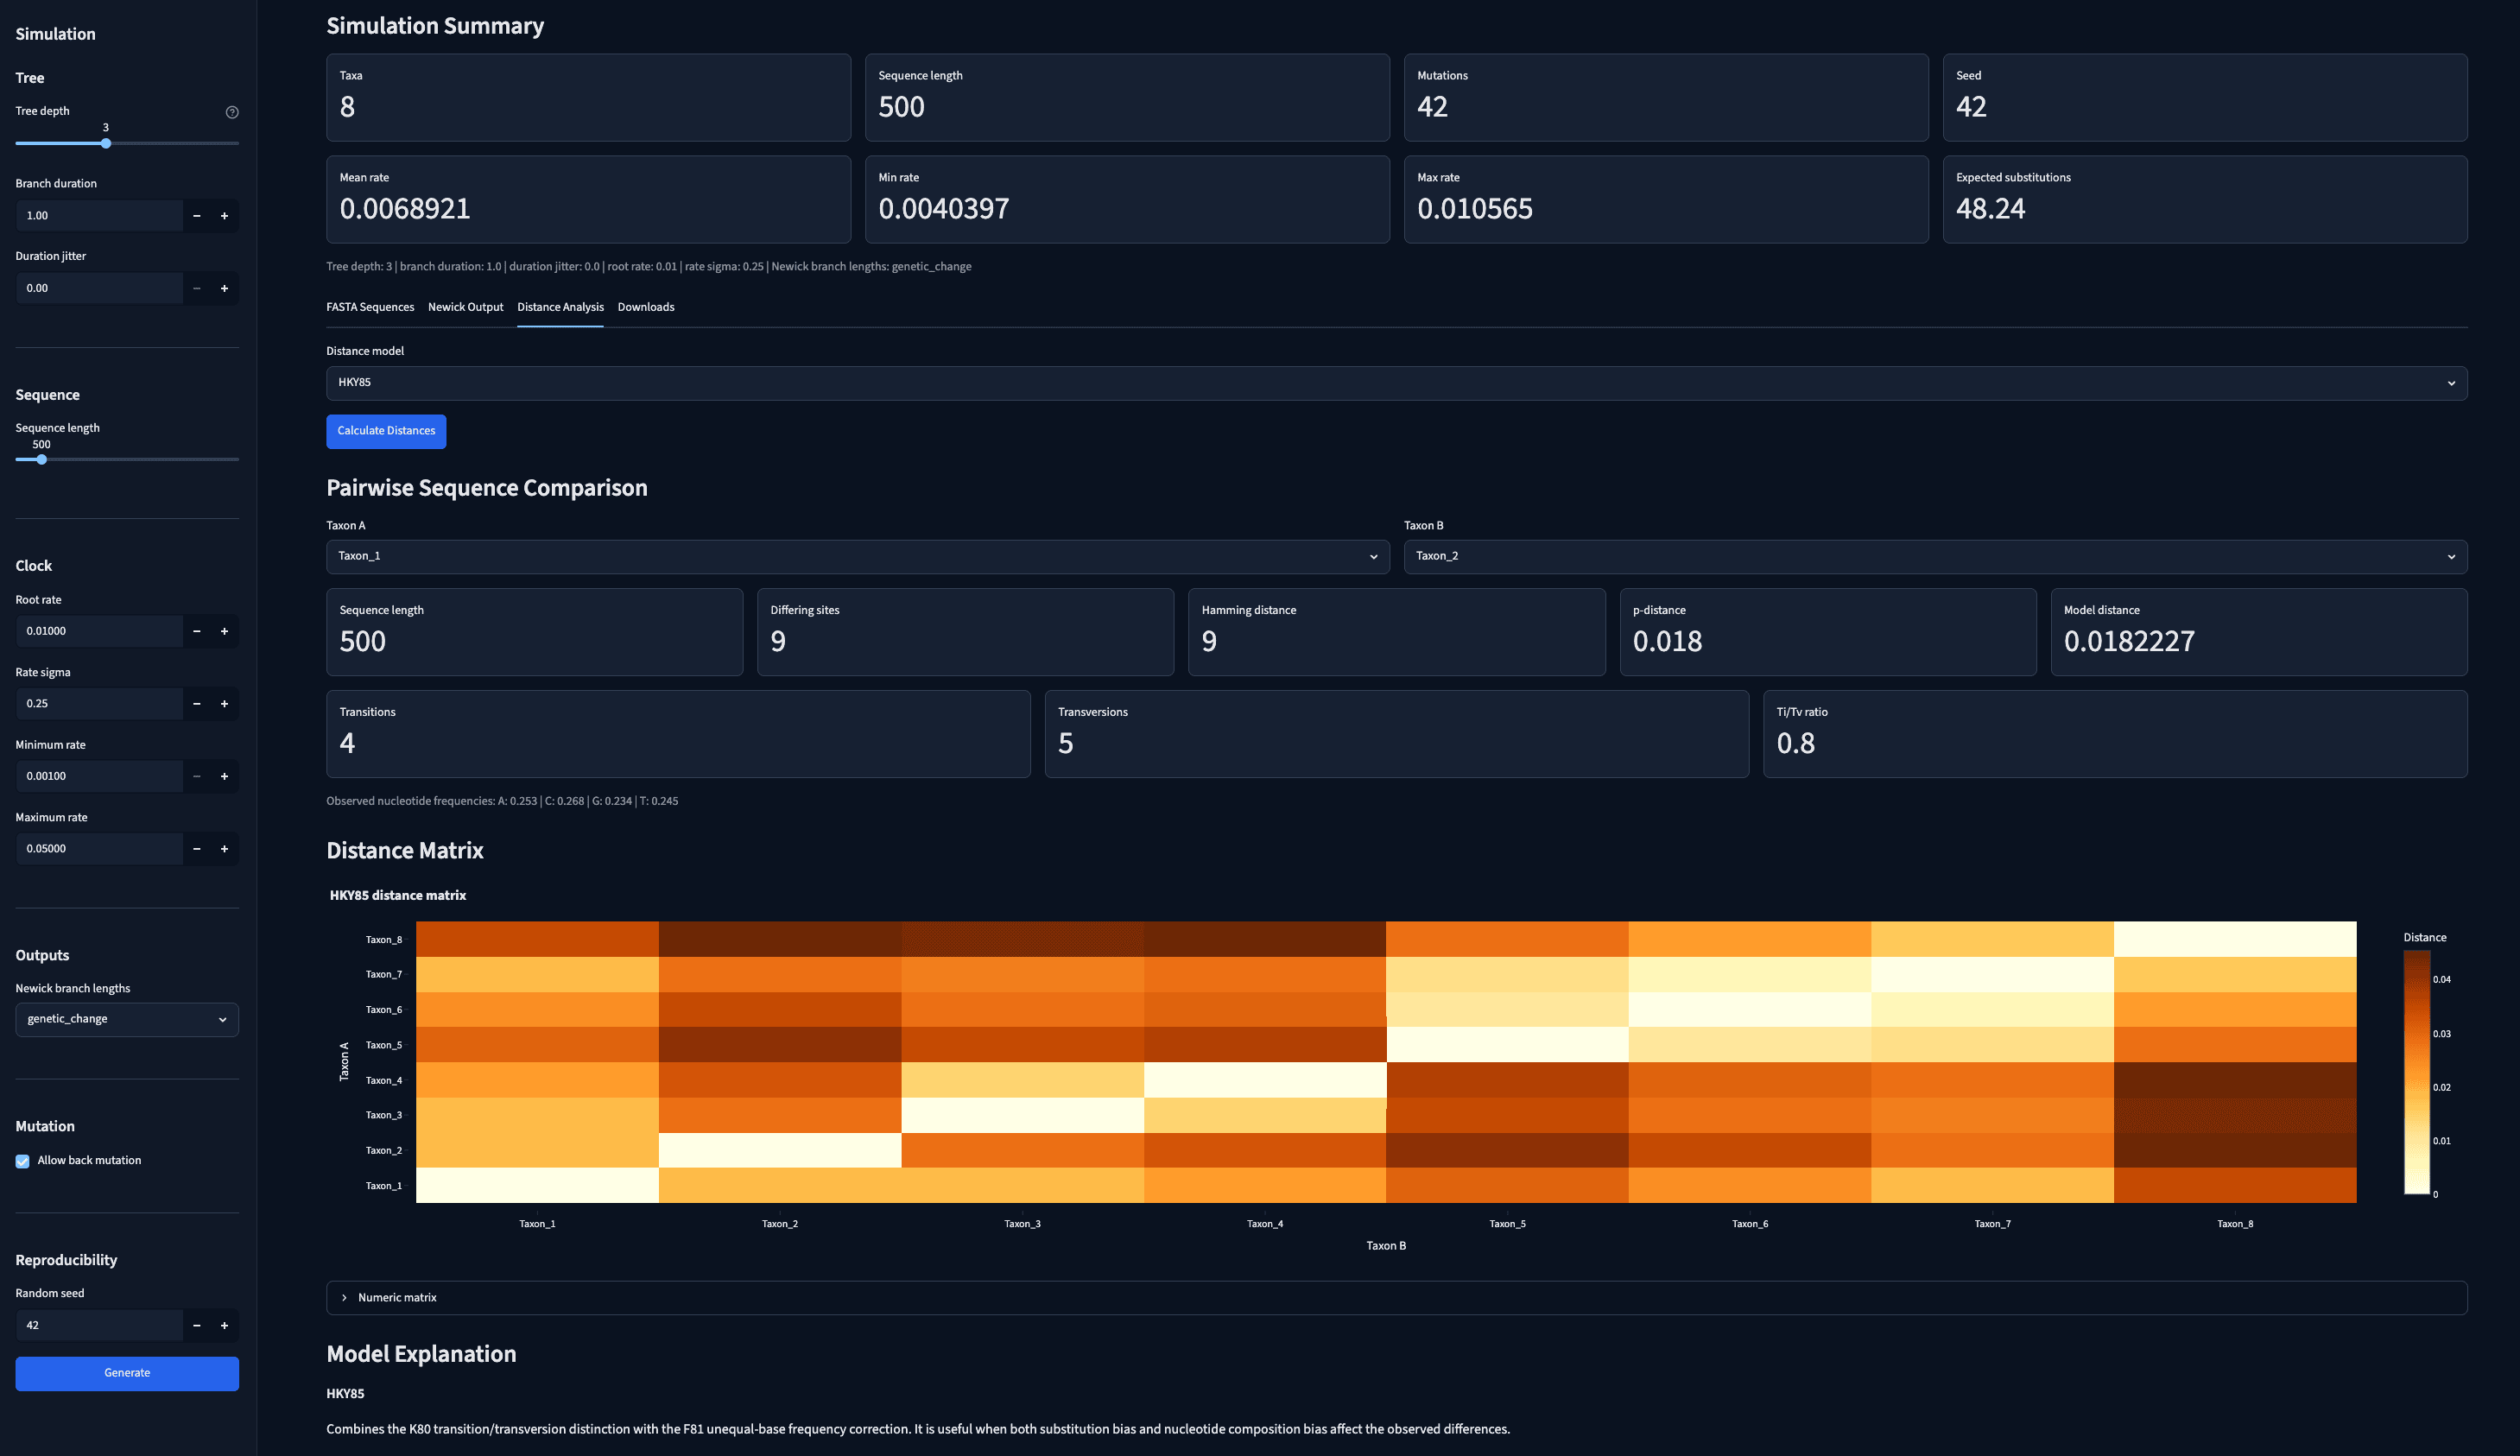
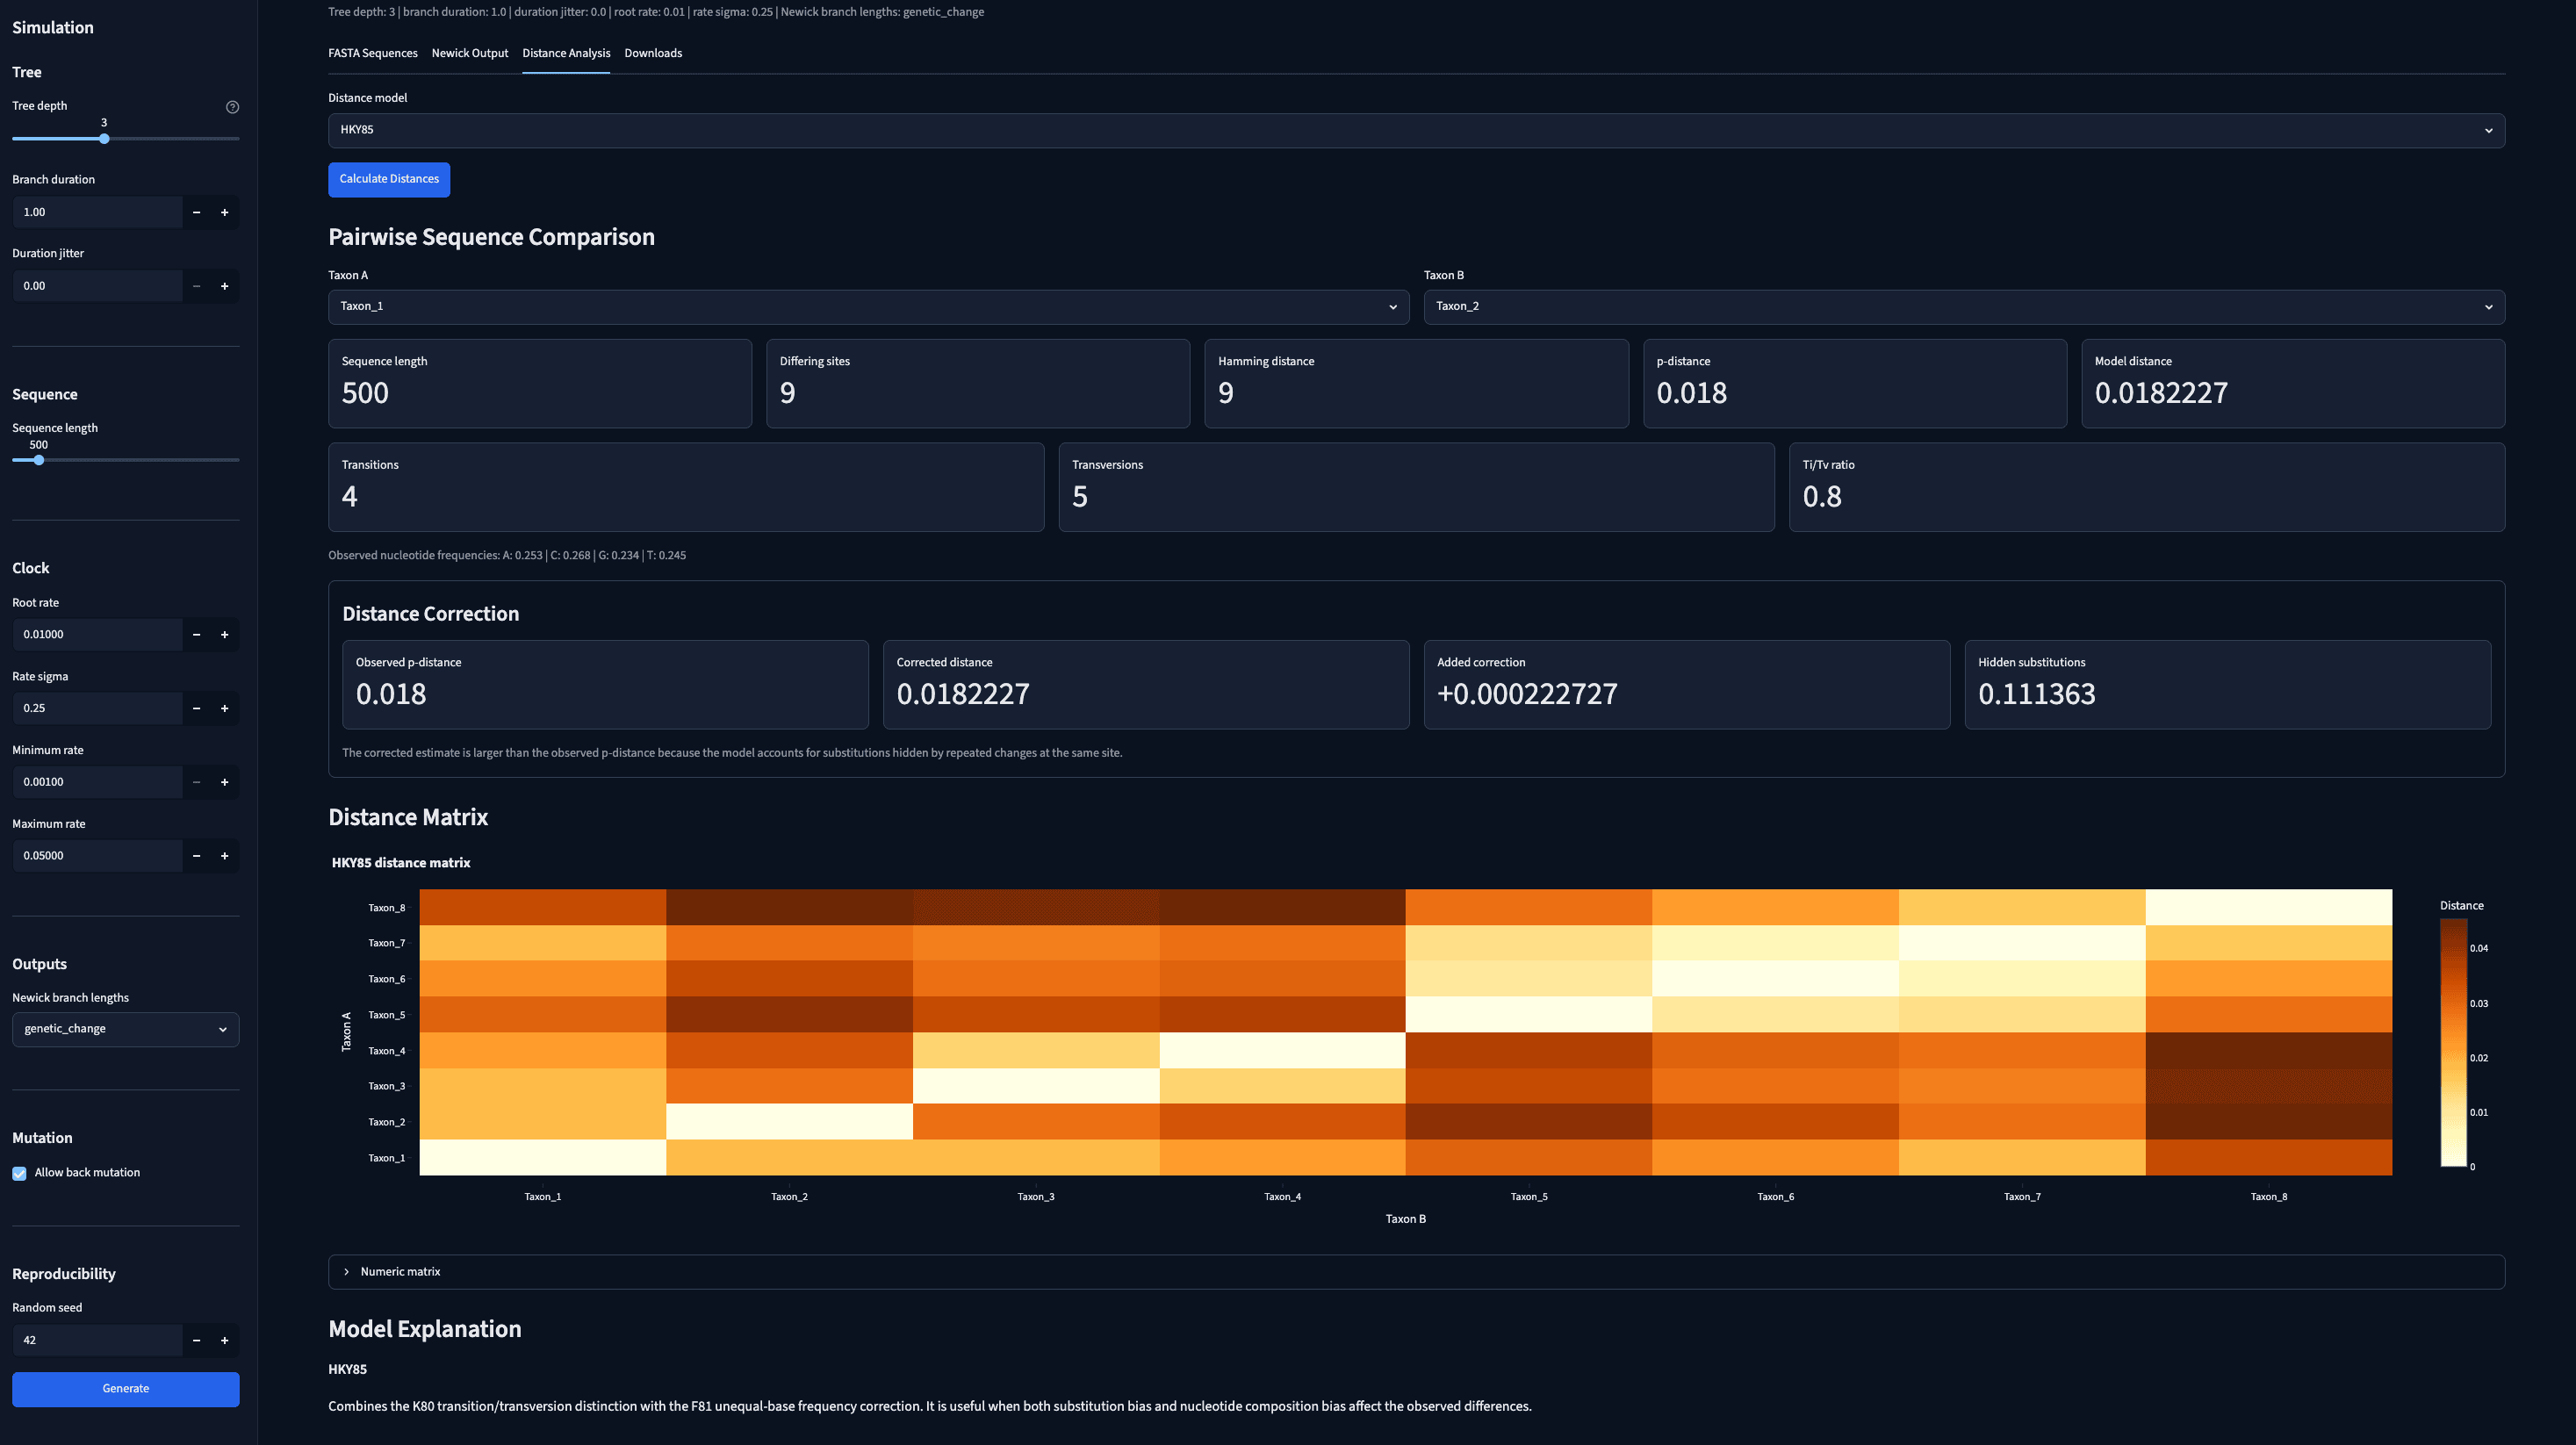
Added distance correction tab

diff --git a/src/molecular_clock_simulation/distance_analysis.py b/src/molecular_clock_simulation/distance_analysis.py
@@ -60,6 +60,8 @@ MODEL_EXPLANATIONS = {
     ),
 }
 
+NO_CORRECTION_MODELS = {"hamming", "proportional"}
+
 
 def render_distance_analysis_tab(
     sequences: dict[str, str],
@@ -132,6 +134,7 @@ def render_distance_analysis_tab(
         matrix_payload,
     )
     render_pairwise_summary(summary)
+    render_distance_correction_card(summary)
 
     st.subheader("Distance Matrix")
     heatmap = build_distance_heatmap(matrix_payload, title=MODEL_LABELS[active_model])
@@ -248,6 +251,85 @@ def render_pairwise_summary(summary: dict[str, Any]) -> None:
         st.caption(f"Observed nucleotide frequencies: {frequency_text}")
 
 
+def correction_card_values(summary: dict[str, Any]) -> dict[str, int | float | str]:
+    """Calculate display values for the pairwise distance-correction card.
+
+    :param summary: Pairwise summary returned by pairwise_summary.
+    :return: Dictionary containing observed, corrected, and correction display values.
+    """
+    model = summary["model"]
+    sequence_length = summary["sequence_length"]
+    observed_distance = summary["proportional_distance"]
+
+    # Hamming is a count, so p-distance is the comparable per-site value for this card.
+    corrected_distance = observed_distance if model == "hamming" else summary["estimated_distance"]
+    correction_amount = (
+        float("inf")
+        if is_infinite_distance(corrected_distance)
+        else corrected_distance - observed_distance
+    )
+    hidden_substitutions = (
+        float("inf")
+        if is_infinite_distance(correction_amount)
+        else correction_amount * sequence_length
+    )
+
+    if model in NO_CORRECTION_MODELS:
+        interpretation = "No model correction is applied; observed differences are shown directly."
+    elif is_infinite_distance(corrected_distance):
+        interpretation = (
+            "The selected model treats this comparison as saturated, so a finite "
+            "corrected distance cannot be estimated."
+        )
+    elif correction_amount == 0:
+        interpretation = "The correction is zero because no hidden substitutions are inferred."
+    else:
+        interpretation = (
+            "The corrected estimate is larger than the observed p-distance because "
+            "the model accounts for substitutions hidden by repeated changes at the same site."
+        )
+
+    return {
+        "observed_distance": observed_distance,
+        "corrected_distance": corrected_distance,
+        "correction_amount": correction_amount,
+        "hidden_substitutions": hidden_substitutions,
+        "interpretation": interpretation,
+    }
+
+
+def render_distance_correction_card(summary: dict[str, Any]) -> None:
+    """Render a compact card explaining the model correction for one pairwise comparison.
+
+    :param summary: Pairwise summary returned by pairwise_summary.
+    :return: None.
+    """
+    import streamlit as st
+
+    values = correction_card_values(summary)
+
+    with st.container(border=True):
+        st.markdown("#### Distance Correction")
+        correction_columns = st.columns(4)
+        correction_columns[0].metric(
+            "Observed p-distance",
+            format_distance(values["observed_distance"]),
+        )
+        correction_columns[1].metric(
+            "Corrected distance",
+            format_distance(values["corrected_distance"]),
+        )
+        correction_columns[2].metric(
+            "Added correction",
+            format_signed_distance(values["correction_amount"]),
+        )
+        correction_columns[3].metric(
+            "Hidden substitutions",
+            format_distance(values["hidden_substitutions"]),
+        )
+        st.caption(values["interpretation"])
+
+
 def build_distance_heatmap(matrix_payload: dict[str, Any], *, title: str) -> Any:
     """Build a Plotly heatmap for a calculated distance matrix.
 
@@ -332,6 +414,30 @@ def format_distance(value: int | float) -> str:
     return f"{value:.6g}"
 
 
+def format_signed_distance(value: int | float) -> str:
+    """Format a correction amount with an explicit sign.
+
+    :param value: Numeric correction amount to display.
+    :return: Human-readable signed distance string.
+    """
+    # Infinite corrections are possible when the selected model reports saturation.
+    if is_infinite_distance(value):
+        return "+infinity"
+    if value == 0:
+        return "0"
+    return f"{value:+.6g}"
+
+
+def is_infinite_distance(value: int | float) -> bool:
+    """Return whether a distance value is positive or negative infinity.
+
+    :param value: Numeric distance value to inspect.
+    :return: True when the value is infinite, otherwise False.
+    """
+    # Keep the infinity check reusable across display helpers and card calculations.
+    return isinstance(value, float) and math.isinf(value)
+
+
 def finite_or_none(value: int | float) -> int | float | None:
     """Return finite numeric values and replace infinities with None.
 
@@ -339,6 +445,6 @@ def finite_or_none(value: int | float) -> int | float | None:
     :return: Original finite value, or None when the value is infinite.
     """
     # Plotly cannot colour an infinite value, but hover text still shows the exact estimate.
-    if isinstance(value, float) and math.isinf(value):
+    if is_infinite_distance(value):
         return None
     return value

diff --git a/tests/test_distance_analysis.py b/tests/test_distance_analysis.py
@@ -2,8 +2,10 @@ import pytest
 
 from distancematrix.calculator import calculate_distance_matrix, hky85_distance, kimura_distance
 from molecular_clock_simulation.distance_analysis import (
+    correction_card_values,
     finite_or_none,
     format_distance,
+    format_signed_distance,
     matrix_table_rows,
     model_explanation,
     pairwise_summary,
@@ -85,6 +87,73 @@ def test_format_distance_and_heatmap_values_handle_infinity():
     assert format_distance(float("inf")) == "infinity"
     assert finite_or_none(float("inf")) is None
     assert finite_or_none(0.25) == 0.25
+
+
+def test_correction_card_values_show_model_added_distance():
+    """Confirm corrected models report hidden substitutions beyond p-distance.
+
+    :return: None.
+    """
+    values = correction_card_values({
+        "model": "jc69",
+        "sequence_length": 100,
+        "proportional_distance": 0.25,
+        "estimated_distance": 0.304099,
+    })
+
+    assert values["observed_distance"] == 0.25
+    assert values["corrected_distance"] == 0.304099
+    assert values["correction_amount"] == pytest.approx(0.054099)
+    assert values["hidden_substitutions"] == pytest.approx(5.4099)
+    assert "hidden" in values["interpretation"]
+
+
+def test_correction_card_values_treat_hamming_as_uncorrected():
+    """Confirm Hamming comparisons use p-distance as the comparable card value.
+
+    :return: None.
+    """
+    values = correction_card_values({
+        "model": "hamming",
+        "sequence_length": 20,
+        "proportional_distance": 0.25,
+        "estimated_distance": 5,
+    })
+
+    assert values["observed_distance"] == 0.25
+    assert values["corrected_distance"] == 0.25
+    assert values["correction_amount"] == 0.0
+    assert values["hidden_substitutions"] == 0.0
+    assert "No model correction" in values["interpretation"]
+
+
+def test_correction_card_values_handle_saturated_estimates():
+    """Confirm saturated corrected distances stay explicit in the card values.
+
+    :return: None.
+    """
+    values = correction_card_values({
+        "model": "jc69",
+        "sequence_length": 12,
+        "proportional_distance": 0.75,
+        "estimated_distance": float("inf"),
+    })
+
+    assert values["corrected_distance"] == float("inf")
+    assert values["correction_amount"] == float("inf")
+    assert values["hidden_substitutions"] == float("inf")
+    assert "saturated" in values["interpretation"]
+
+
+def test_format_signed_distance_shows_direction():
+    """Confirm correction amounts include a sign except at zero.
+
+    :return: None.
+    """
+    assert format_signed_distance(0.125) == "+0.125"
+    assert format_signed_distance(-0.125) == "-0.125"
+    assert format_signed_distance(0.0) == "0"
+    assert format_signed_distance(float("inf")) == "+infinity"
 
 
 def test_transition_transversion_ratio_handles_zero_transversions():